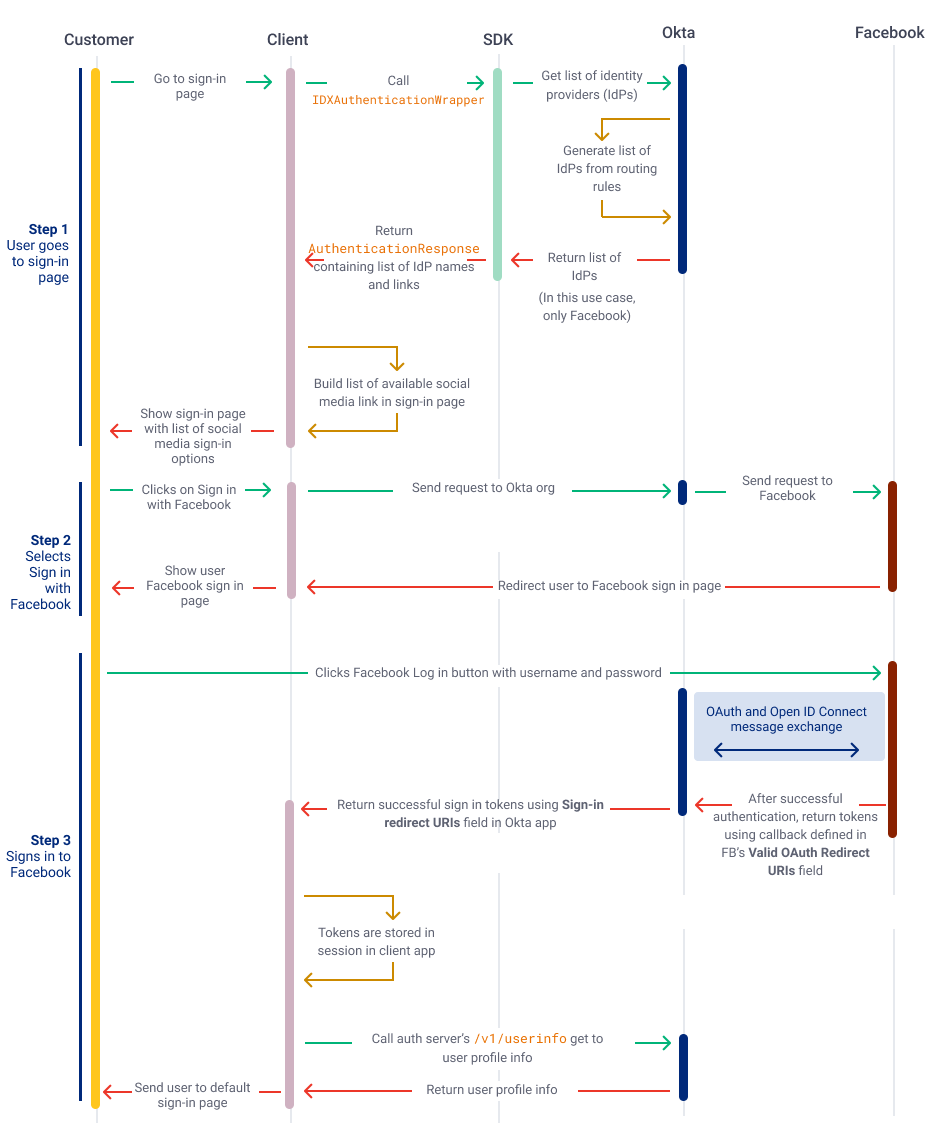
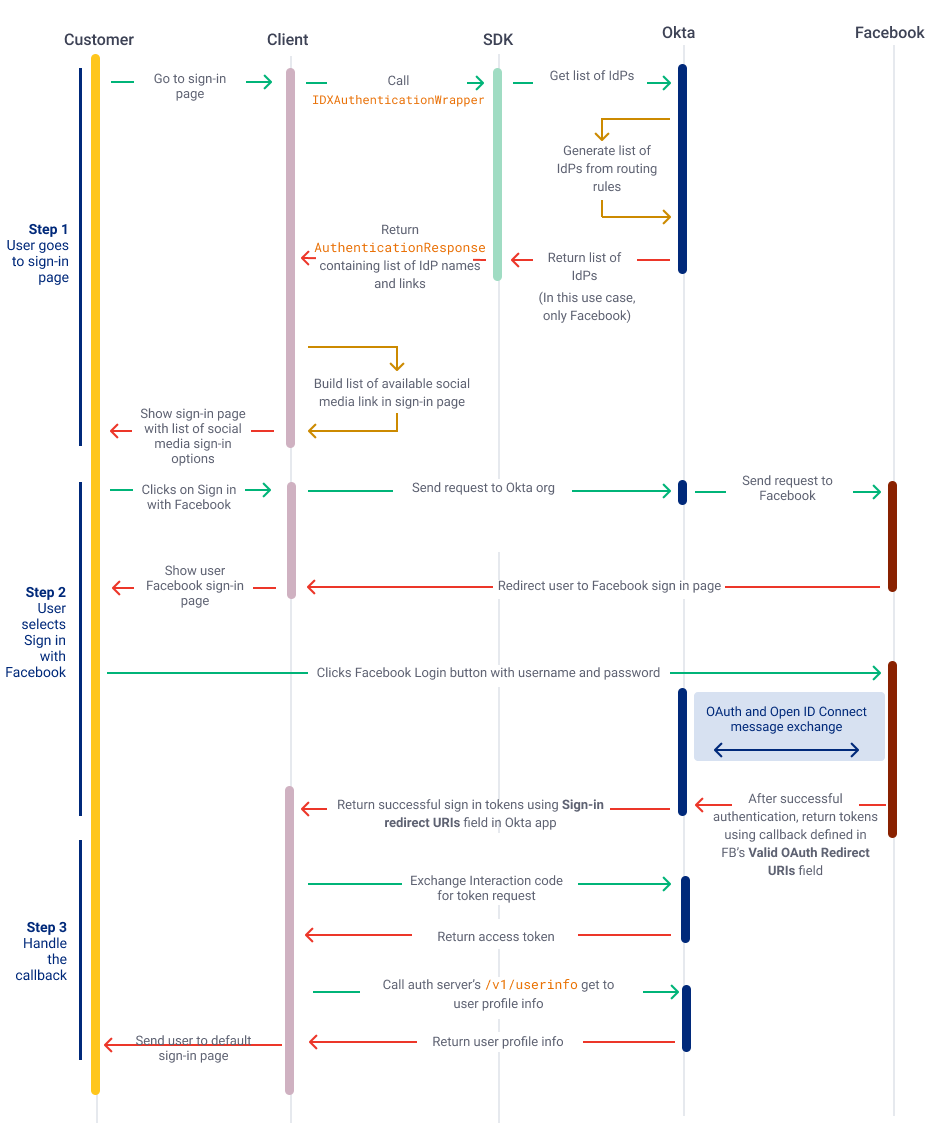
update diagram and rearrange process steps based on Arvind's feedback

diff --git a/packages/@okta/vuepress-site/docs/guides/oie-embedded-sdk-use-cases/oie-embedded-sdk-use-case-sign-in-soc-idp/java/integrationsteps.md b/packages/@okta/vuepress-site/docs/guides/oie-embedded-sdk-use-cases/oie-embedded-sdk-use-case-sign-in-soc-idp/java/integrationsteps.md
@@ -1,6 +1,6 @@
 ## Integration steps
 
-### Step 1: Start the sign-in process
+### Step 1: Sign in with Facebook
 
 Use [IDXAuthenticationWrapper](https://github.com/okta/okta-idx-java/blob/master/api/src/main/java/com/okta/idx/sdk/api/client/IDXAuthenticationWrapper.java) to start the sign-in process with Okta when the user goes to the sign-in page.
 
@@ -8,19 +8,11 @@ Use [IDXAuthenticationWrapper](https://github.com/okta/okta-idx-java/blob/master
 AuthenticationResponse beginResponse = idxAuthenticationWrapper.begin()
 ```
 
-### Step 2: Get the available IdPs from your org
-
 Use the [AuthenticationResponse.getIdps()](https://github.com/okta/okta-idx-java/blob/master/api/src/main/java/com/okta/idx/sdk/api/response/AuthenticationResponse.java#L91) function to return a list of social Identity Provider (IdP) options configured in your org's routing rule. See [Set up your Okta org (for social Identity Providers)](/docs/guides/oie-embedded-common-org-setup/java/main/#set-up-your-okta-org-for-social-identity-providers) for IdP configuration in your org.
 
 ```java
-ModelAndView modelAndView = new ModelAndView("login");
-if (!CollectionUtils.isEmpty(authenticationResponse.getIdps())) {
-    modelAndView.addObject("idps", authenticationResponse.getIdps());
-}
-return modelAndView;
+List<Idp> idps = authenticationResponse.getIdps();
 ```
-
-### Step 3: Display the social sign-in options in your sign-in HTML page
 
 You need to build the sign-in HTML view page with the social sign-in options available from the list of IdPs.
 
@@ -53,15 +45,24 @@ You need to build the sign-in HTML view page with the social sign-in options ava
 </div>
 ```
 
-If the user selects the **Login with Facebook** option, they are directed to the Facebook sign-in page.
+The following example displays the **Login with Facebook** button.
 
-### Step 4: Facebook redirects to your Okta org
+<div class="common-image-format">
+
+![Social sign-in screenshot for Java](/img/oie-embedded-sdk/oie-embedded-sdk-use-case-social-sign-in-link-java.png
+ "Social sign-in screenshot for Java")
+
+</div>
+
+### Step 2: User signs in with Facebook
+
+If the user selects the **Login with Facebook** option, they are directed to the Facebook sign-in page.
 
 After the user signs in to Facebook successfully, Facebook routes the user to the location that you've specified in **Valid OAuth Redirect URIs** from the Facebook developer site. See [Step 1: Create a Facebook app in Facebook](/docs/guides/oie-embedded-common-org-setup/java/main/#step-1-create-a-facebook-app-in-facebook).
 
 The **Valid OAuth Redirect URIs** for your Okta org is in the format: `https://{yourOktaDomain}/oauth2/v1/authorize/callback`.
 
-### Step 5: Handle the callback from Okta
+### Step 3: Handle the callback from Okta
 
 Okta returns the Interaction code in the callback to the **Sign-in redirect URI** location specified in [Create new application](/docs/guides/oie-embedded-common-org-setup/java/main/#step-4-create-new-application). You need to handle the callback by exchanging the Interaction code for token.
 
@@ -71,7 +72,6 @@ AuthenticationResponse authenticationResponse =
 
 ```
 
-With the access token, you can obtain basic user information after the user is authenticated by making a request to Okta's Open ID Connect authorization server. See [Get user profile information after sign in](/docs/guides/oie-embedded-sdk-alternate-flows/java/main/#getuserprofileinfo).
+With the access token, you can obtain basic user information by making a request to Okta's Open ID Connect authorization server. See [Get user profile information after sign in](/docs/guides/oie-embedded-sdk-alternate-flows/java/main/#getuserprofileinfo).
 
-### Step 6: Send the user to the default home page
 The user is now successfully signed in and can be sent to the default sign-in page.
